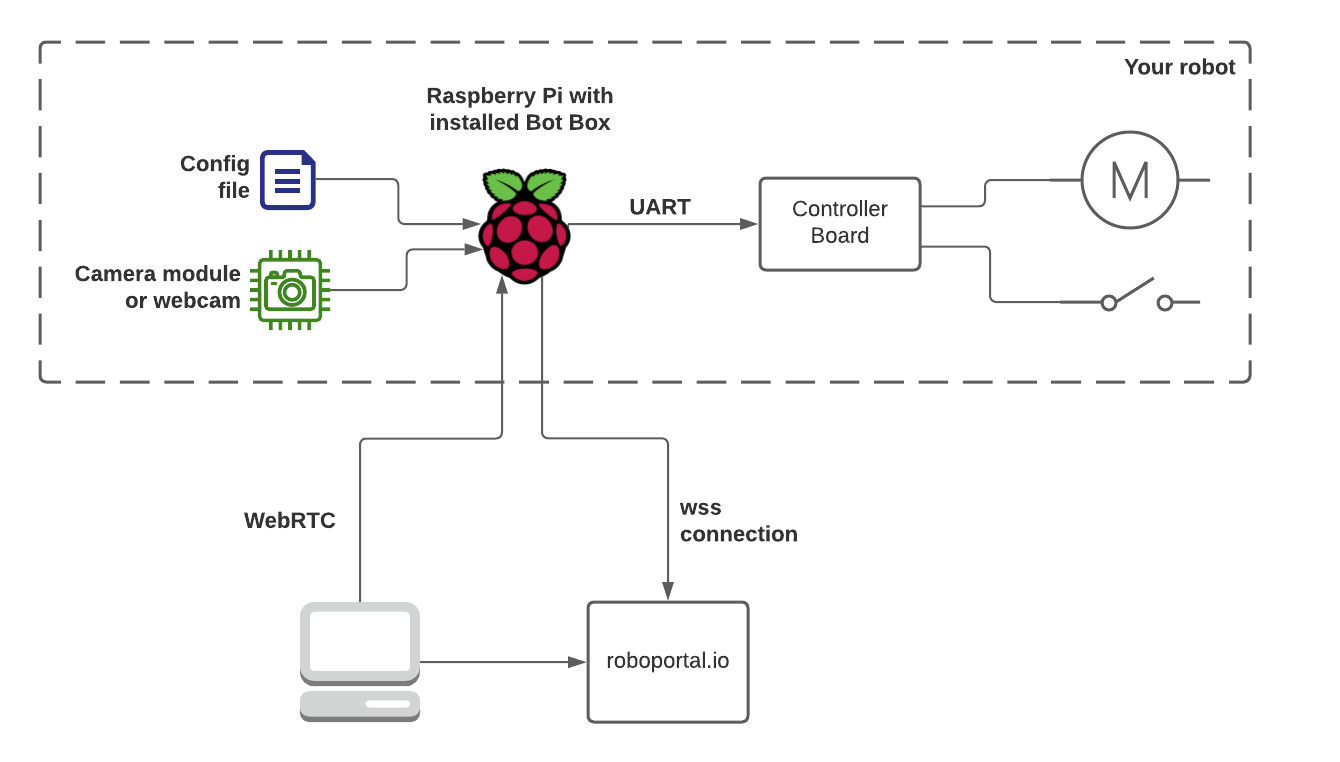
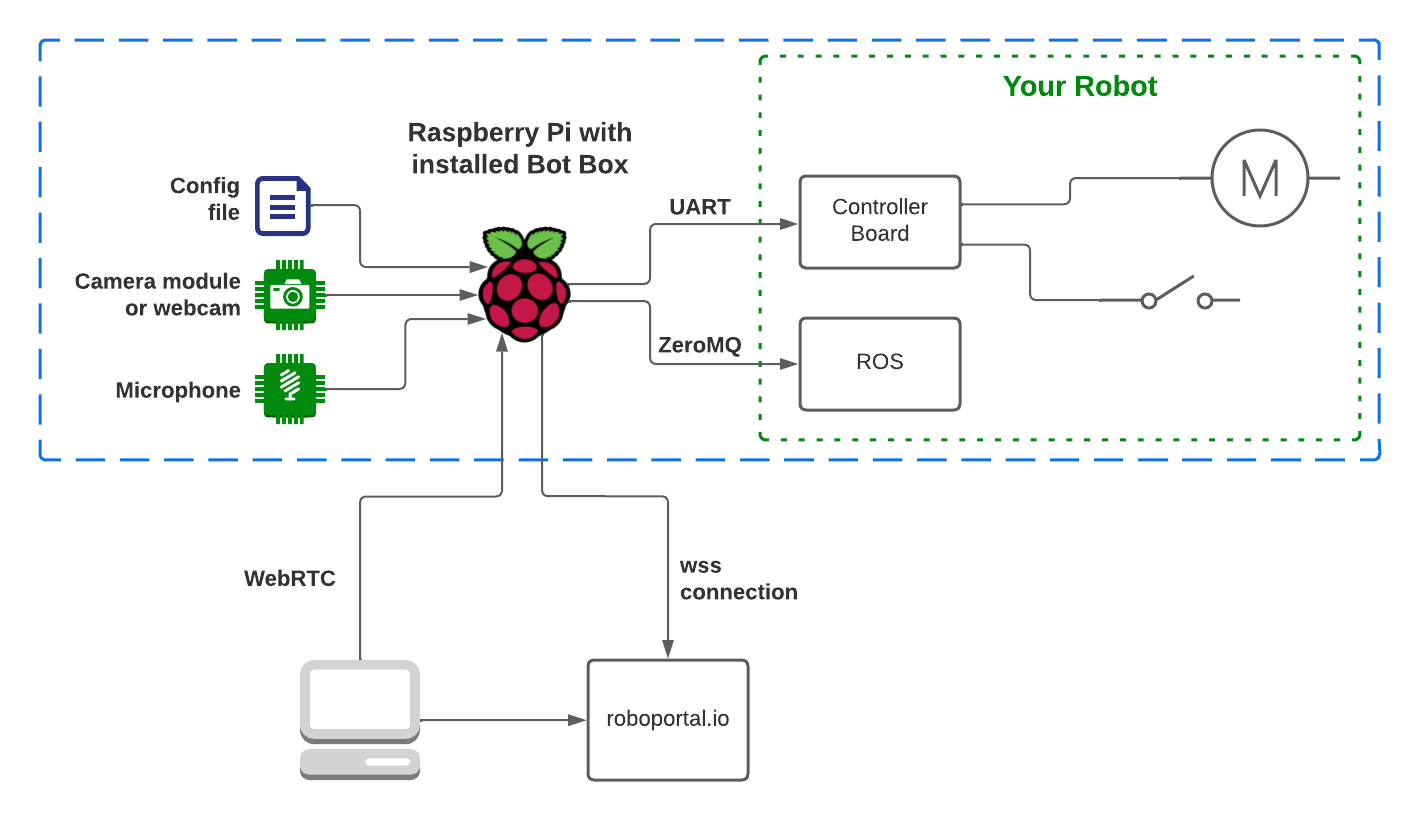
Documentation update

diff --git a/README.md b/README.md
@@ -8,6 +8,7 @@ It enables peer-to-peer controls, video and audio streaming between robots and w
 - real time video and bidirectional audio streaming
 - keyboard and gamepad controls streaming with data channel
 - telemetry streaming to the platform. Position on map and battery voltage are supported
+- connect robot via UART or ZeroMQ
 
 # How it works
 
@@ -64,10 +65,12 @@ The list of params:
 - `video_frame_rate` - camera frame rate
 - `audio_input_enabled` - enable audio streaming to roboportal
 - `audio_output_enabled` - enable audio streaming form roboportal
-
 - `output_mode` - destination for control commands: `console` | `serial` | `ipc`
 - `port_name` - name of the serial port to communicate with robot hardware
 - `baud_rate` - serial port baud rate
+- `bot_box_ipc_port` - BotBox ipc port
+- `robot_ipc_port` - robot ipc port
+- `robot_ipc_host` - robot ipc host name
 
 # Supervisor setup
 
